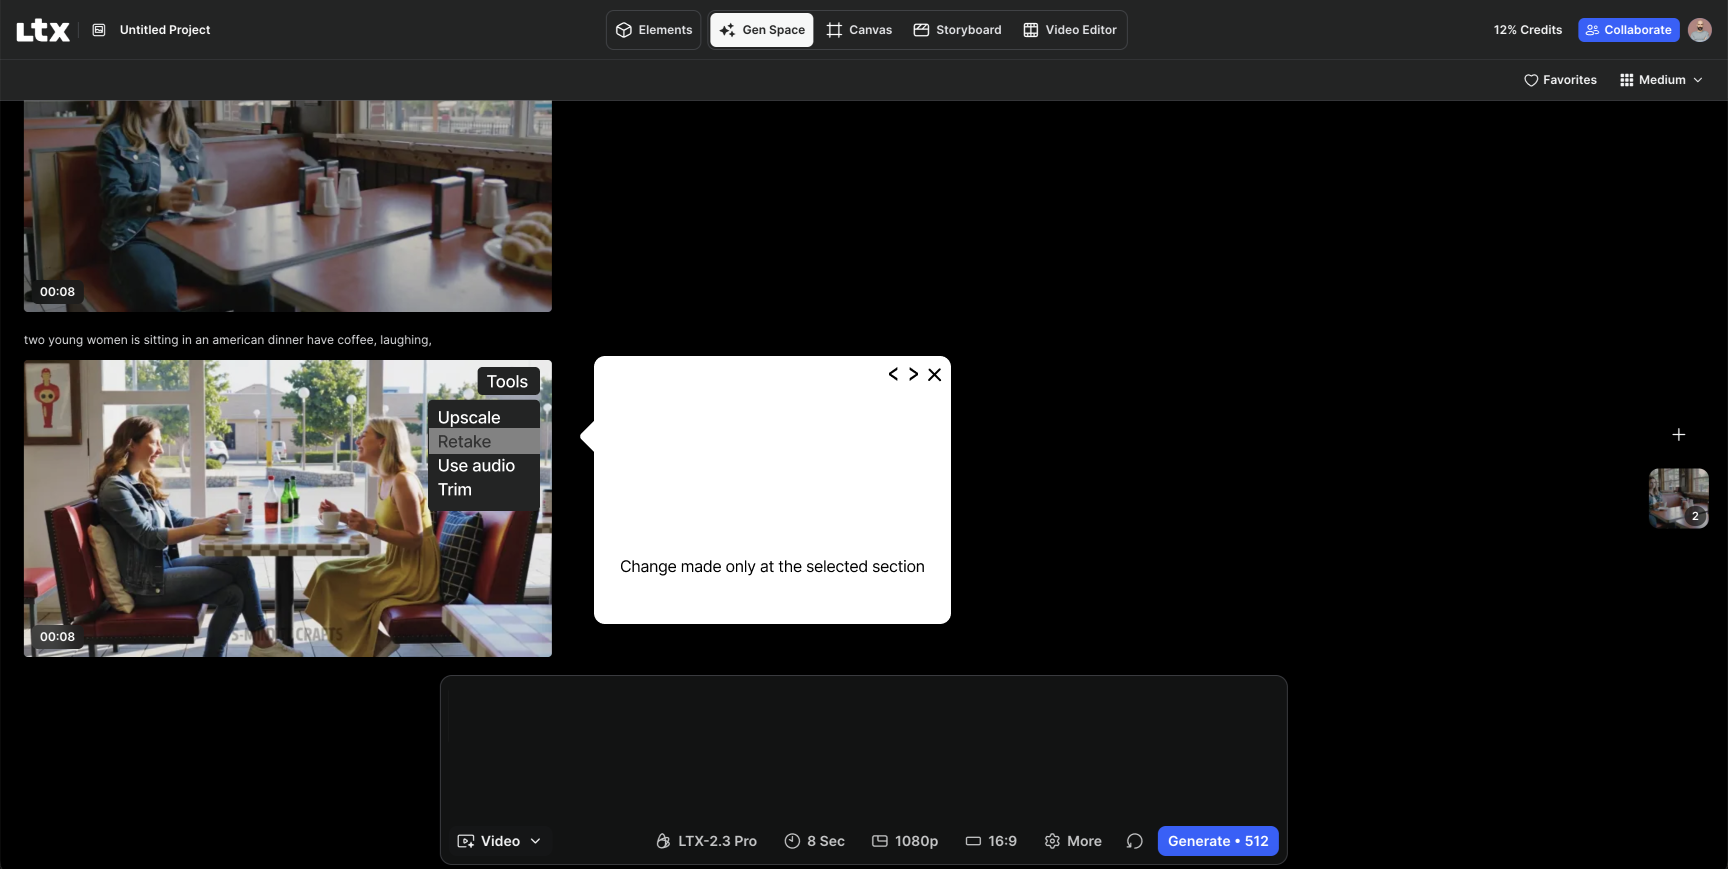
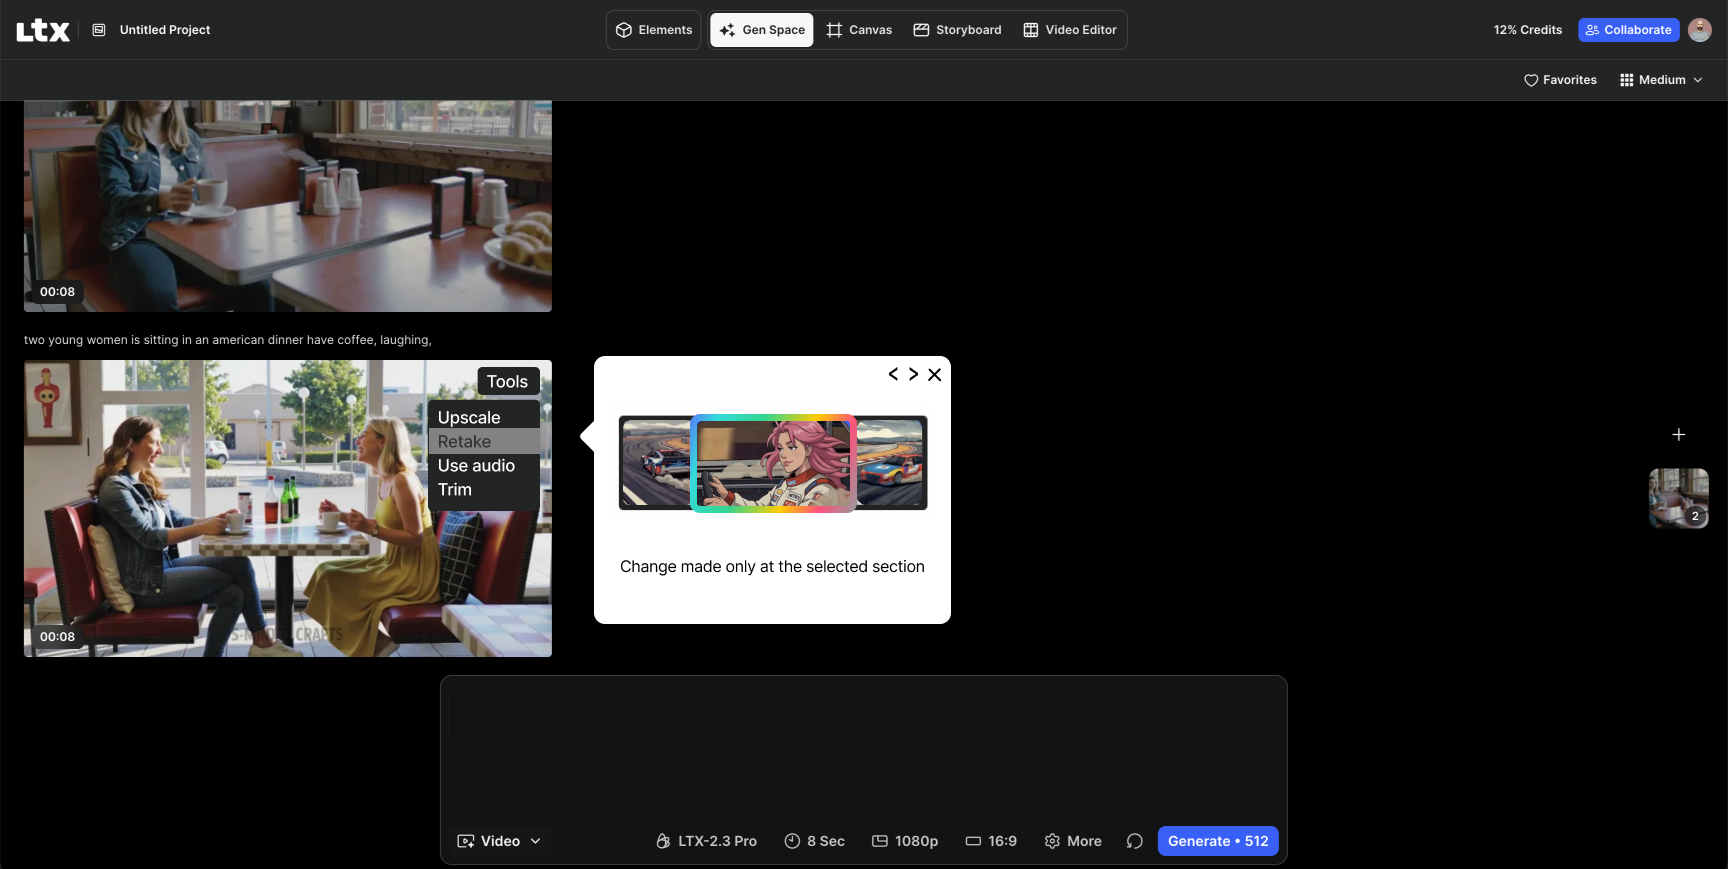
add initial frame to all storyboards

Changed region(s): [[0.3438, 0.4661, 0.5625, 0.5903]]

diff --git a/index.html b/index.html
@@ -57,9 +57,9 @@
     }
 
     .section-description {
-      max-width: 760px;
+      max-width: 920px;
       font-size: 19px;
-      line-height: 1.6;
+      line-height: 1.7;
       color: #666;
       margin: 18px 0 44px;
     }
@@ -153,24 +153,19 @@
     .video-section {
       width: calc(100vw - 120px);
       max-width: 1400px;
-      margin: 48px 0 0;
+      margin: 120px 0 0;
       margin-left: 50%;
       transform: translateX(-50%);
       background: transparent;
-      box-shadow: none;
-      border: none;
-      border-radius: 0;
-      padding: 0;
     }
 
     .video-title {
       width: 100%;
-      font-size: 17px;
-      line-height: 1.55;
+      max-width: 1100px;
+      font-size: 20px;
+      line-height: 1.7;
       color: #666;
-      margin: 0 0 14px;
-      padding-left: 5px;
-      text-align: left;
+      margin: 0 auto 24px;
     }
 
     .video-wrapper {
@@ -191,30 +186,23 @@
       display: block;
     }
 
-    .summary {
-      margin-top: 150px;
-      border-radius: 18px;
-      background: #090909;
-      color: white;
-      padding: 70px;
-      position: relative;
-      overflow: hidden;
+    .thanks {
+      margin-top: 180px;
+      text-align: center;
+      padding-bottom: 80px;
     }
 
-    .summary h2 {
-      max-width: 850px;
-      font-size: clamp(42px, 6vw, 76px);
+    .thanks h2 {
+      font-size: clamp(48px, 7vw, 92px);
       line-height: 0.95;
       letter-spacing: -0.05em;
       margin: 0;
     }
 
-    .summary p {
-      max-width: 760px;
-      font-size: 20px;
-      line-height: 1.65;
-      color: rgba(255,255,255,0.7);
-      margin-top: 30px;
+    .thanks p {
+      margin-top: 20px;
+      font-size: 22px;
+      color: #666;
     }
 
     @media (max-width: 900px) {
@@ -242,15 +230,13 @@
 
       .prev { left: 12px; }
       .next { right: 12px; }
-
-      .summary { padding: 40px 28px; }
     }
   </style>
 </head>
 
 <body>
   <main class="page">
-    <p class="eyebrow">Product Motion Assignment</p>
+    <p class="eyebrow">Product Motion Assignment — by Idan Vardi</p>
 
     <h1>Introducing Retake through motion.</h1>
 
@@ -259,69 +245,128 @@
     </p>
 
     <section class="section">
-      <h2>Option 01 — Guided Walkthrough</h2>
+      <h2>Option 01 — Continuous Value-First Demo</h2>
+
       <p class="section-description">
-        A step-by-step educational flow that introduces Retake through a focused modal walkthrough. This approach is more explanatory and works well for first-time discovery.
+        A continuous video-based onboarding moment, presented in a smaller in-context frame.<br><br>
+
+        This direction avoids over-celebrating the feature announcement. Instead, it puts the user benefit first: showing that Retake can change a specific part of a video without regenerating the entire result.<br><br>
+
+        Because the education stays smaller within the workspace, it feels less disruptive and helps preserve orientation. The user remains aware of where they are in the product while still receiving a clear feature introduction.<br><br>
+
+        <strong>Pros</strong><br>
+        • Leads with value, both visually and textually.<br>
+        • Feels more elegant and less promotional.<br>
+        • Keeps the user closer to the workspace context.<br>
+        • A continuous video may help more users absorb the full benefit quickly, without needing to click through multiple steps.<br>
+        • The smaller frame reduces the feeling that the product experience is being hijacked.<br><br>
+
+        <strong>Cons</strong><br>
+        • The feature launch feels less celebrated.<br>
+        • A continuous video may create higher cognitive load if too much happens too quickly.<br>
+        • Users may miss specific interaction details because they are not controlling the pace.<br><br>
+
+        <strong>Why I chose this imagery</strong><br>
+        Since the visual is relatively small in the frame, the image needs to be immediately readable. A realistic scene could become visually noisy at thumbnail size, while an illustrated/anime style is more iconic, recognizable, and easier to decode quickly.<br><br>
+
+        I chose a scene with a clear beginning, middle, and end so the timeline selection is easy to understand. The middle section includes a close-up, making the Retake change feel focused on one clear, visible element.
       </p>
+
       <div id="carouselA"></div>
-
-      <div class="video-section">
-        <p class="video-title">
-          Final motion prototype showing the complete Retake flow.
-        </p>
-
-        <div class="video-wrapper">
-          <iframe
-            src="https://www.youtube.com/embed/8MKxbgnd1bo"
-            title="Retake Motion Demo"
-            frameborder="0"
-            allow="accelerometer; autoplay; clipboard-write; encrypted-media; gyroscope; picture-in-picture"
-            allowfullscreen>
-          </iframe>
-        </div>
-      </div>
     </section>
 
     <section class="section">
-      <h2>Option 02 — Contextual Tooltip Flow</h2>
+      <h2>Option 02 — Feature Announcement + Guided Stepper</h2>
+
       <p class="section-description">
-        A lighter contextual onboarding experience that teaches Retake inside the workspace with minimal interruption to the creative flow.
+        A stronger feature announcement followed by a smaller, contextual step-by-step walkthrough.<br><br>
+
+        This direction starts with a more visible announcement to make sure users notice the new capability. After that, it uses micro-interactions around the Tools menu to orient the user before moving into a stepper that explains the feature value and workflow.<br><br>
+
+        The idea is to balance discoverability with clarity: first show where the feature lives, then explain what it does.<br><br>
+
+        <strong>Pros</strong><br>
+        • Makes the new feature harder to miss.<br>
+        • Creates a stronger launch moment and can support brand/product perception.<br>
+        • Showing the Tools menu helps users understand where to find Retake later.<br>
+        • The stepper reduces cognitive load by breaking the explanation into smaller, controlled moments.<br>
+        • Users can move through the information at their own pace.<br><br>
+
+        <strong>Cons</strong><br>
+        • Starting with a large announcement and then adding UI guidance may feel intrusive.<br>
+        • Motion layered on top of the workspace can feel like it temporarily takes over the product.<br>
+        • A stepper gives users control, but also gives them more opportunities to dismiss before seeing the full value.<br>
+        • The value appears later than in Option 1.<br><br>
+
+        <strong>Why I chose this imagery</strong><br>
+        The visual choice follows the same logic as Option 1. Because the example appears in a relatively small UI area, the imagery needs to be readable fast. The illustrated style keeps the scene clear and reduces visual noise, helping users understand the Retake change without needing to study the frame.
       </p>
+
       <div id="carouselB"></div>
     </section>
 
     <section class="section">
-      <h2>Option 03 — Visual Demo Flow</h2>
+      <h2>Option 03 — Lightweight Announcement + Expanded Modal Tour</h2>
+
       <p class="section-description">
-        A polished product demo approach that shows the feature through an example video, then demonstrates the precise retake workflow and final outcome.
+        A small initial announcement followed by a larger, more immersive modal walkthrough.<br><br>
+
+        This direction first introduces the feature with a simple message, then invites users into a more detailed product tour. The expanded modal gives more space to explain the workflow clearly, show richer visuals, and demonstrate the feature with a more impressive video example.<br><br>
+
+        This is the most explanatory and polished direction. It leans into product education and brand presentation more than the other options.<br><br>
+
+        <strong>Pros</strong><br>
+        • The initial text-first message can communicate the core value very quickly.<br>
+        • Asking users to continue into the tour creates a stronger intent signal.<br>
+        • Users who choose to continue are more likely to engage deeply and try the feature afterward.<br>
+        • The larger modal gives enough room for clearer visual hierarchy and more detailed explanation.<br>
+        • It creates an opportunity to showcase the quality of the video generation itself.<br><br>
+
+        <strong>Cons</strong><br>
+        • Asking users to opt into a tour may create a major drop-off.<br>
+        • The larger modal is more interruptive and takes users further out of their workflow.<br>
+        • A stepper gives users control, but also gives them more time to decide to close it.<br>
+        • This direction may feel heavier than necessary for users who prefer to learn by doing.<br><br>
+
+        <strong>Why I chose this imagery</strong><br>
+        Because this option uses a larger visual surface, it can support more realistic and detailed imagery. This gives the product a chance to impress users with generation quality, cinematic detail, and emotional appeal.<br><br>
+
+        The larger frame also makes the Retake concept easier to explain because users can clearly see the selected section, the requested change, and the final result without the visual becoming too dense.
       </p>
+
       <div id="carouselC"></div>
     </section>
 
-    <section class="summary">
-      <p class="eyebrow">Final Thoughts</p>
-      <h2>The motion should make the value instantly clear.</h2>
-      <p>
-        Across all three directions, the main idea is the same: Retake gives users precision and control. Instead of starting over, they can isolate a moment, describe the change, and keep the rest of the video intact.
+    <section class="video-section">
+      <p class="video-title">
+        I chose to move forward with Option 1 because it communicates the actual user value most effectively and immediately. Users are intelligent and naturally skeptical of feature announcements — large promotional moments can feel marketing-driven and focused on what the product wants to say, rather than what the user gains from it.<br><br>
+
+        Leading with the value itself, both visually and contextually, creates a more natural and user-centered introduction to the feature.<br><br>
+
+        A continuous video also has a better chance of delivering more information in a shorter amount of time. Since the experience flows passively, users are not required to make immediate decisions such as whether to continue or dismiss the walkthrough. This reduces friction, lowers interruption, and minimizes opportunities to prematurely close the experience before understanding the benefit.
       </p>
+
+      <div class="video-wrapper">
+        <iframe
+          src="https://www.youtube.com/embed/8MKxbgnd1bo"
+          title="Retake Motion Demo"
+          frameborder="0"
+          allow="accelerometer; autoplay; clipboard-write; encrypted-media; gyroscope; picture-in-picture"
+          allowfullscreen>
+        </iframe>
+      </div>
+    </section>
+
+    <section class="thanks">
+      <h2>Thank you</h2>
+      <p>Idan Vardi</p>
     </section>
   </main>
 
   <script>
     const data = {
       carouselA: {
-        images: [
-          "First.png",
-          "A1.png",
-          "A2.png",
-          "A3.png",
-          "A4.png",
-          "A5.png",
-          "A6.png",
-          "A7.png",
-          "A8.png",
-          "A9.png"
-        ],
+        images: ["First.png","A1.png","A2.png","A3.png","A4.png","A5.png","A6.png","A7.png","A8.png","A9.png"],
         captions: [
           "Initial state before animation starts",
           "Presenting value on 1st frame",
@@ -337,19 +382,7 @@
       },
 
       carouselB: {
-        images: [
-          "First.png",
-          "B1.png",
-          "B2.png",
-          "B3.png",
-          "B4.png",
-          "B5.png",
-          "B6.png",
-          "B7.png",
-          "B8.png",
-          "B9.png",
-          "B10.png"
-        ],
+        images: ["First.png","B1.png","B2.png","B3.png","B4.png","B5.png","B6.png","B7.png","B8.png","B9.png","B10.png"],
         captions: [
           "Initial state before animation starts",
           "Big announcement of the feature",
@@ -366,17 +399,7 @@
       },
 
       carouselC: {
-        images: [
-          "First.png",
-          "C1.png",
-          "C2.png",
-          "C3.png",
-          "C4.png",
-          "C5.png",
-          "C6.png",
-          "C7.png",
-          "C8.png"
-        ],
+        images: ["First.png","C1.png","C2.png","C3.png","C4.png","C5.png","C6.png","C7.png","C8.png"],
         captions: [
           "Initial state before animation starts",
           "Small announcement of the feature",